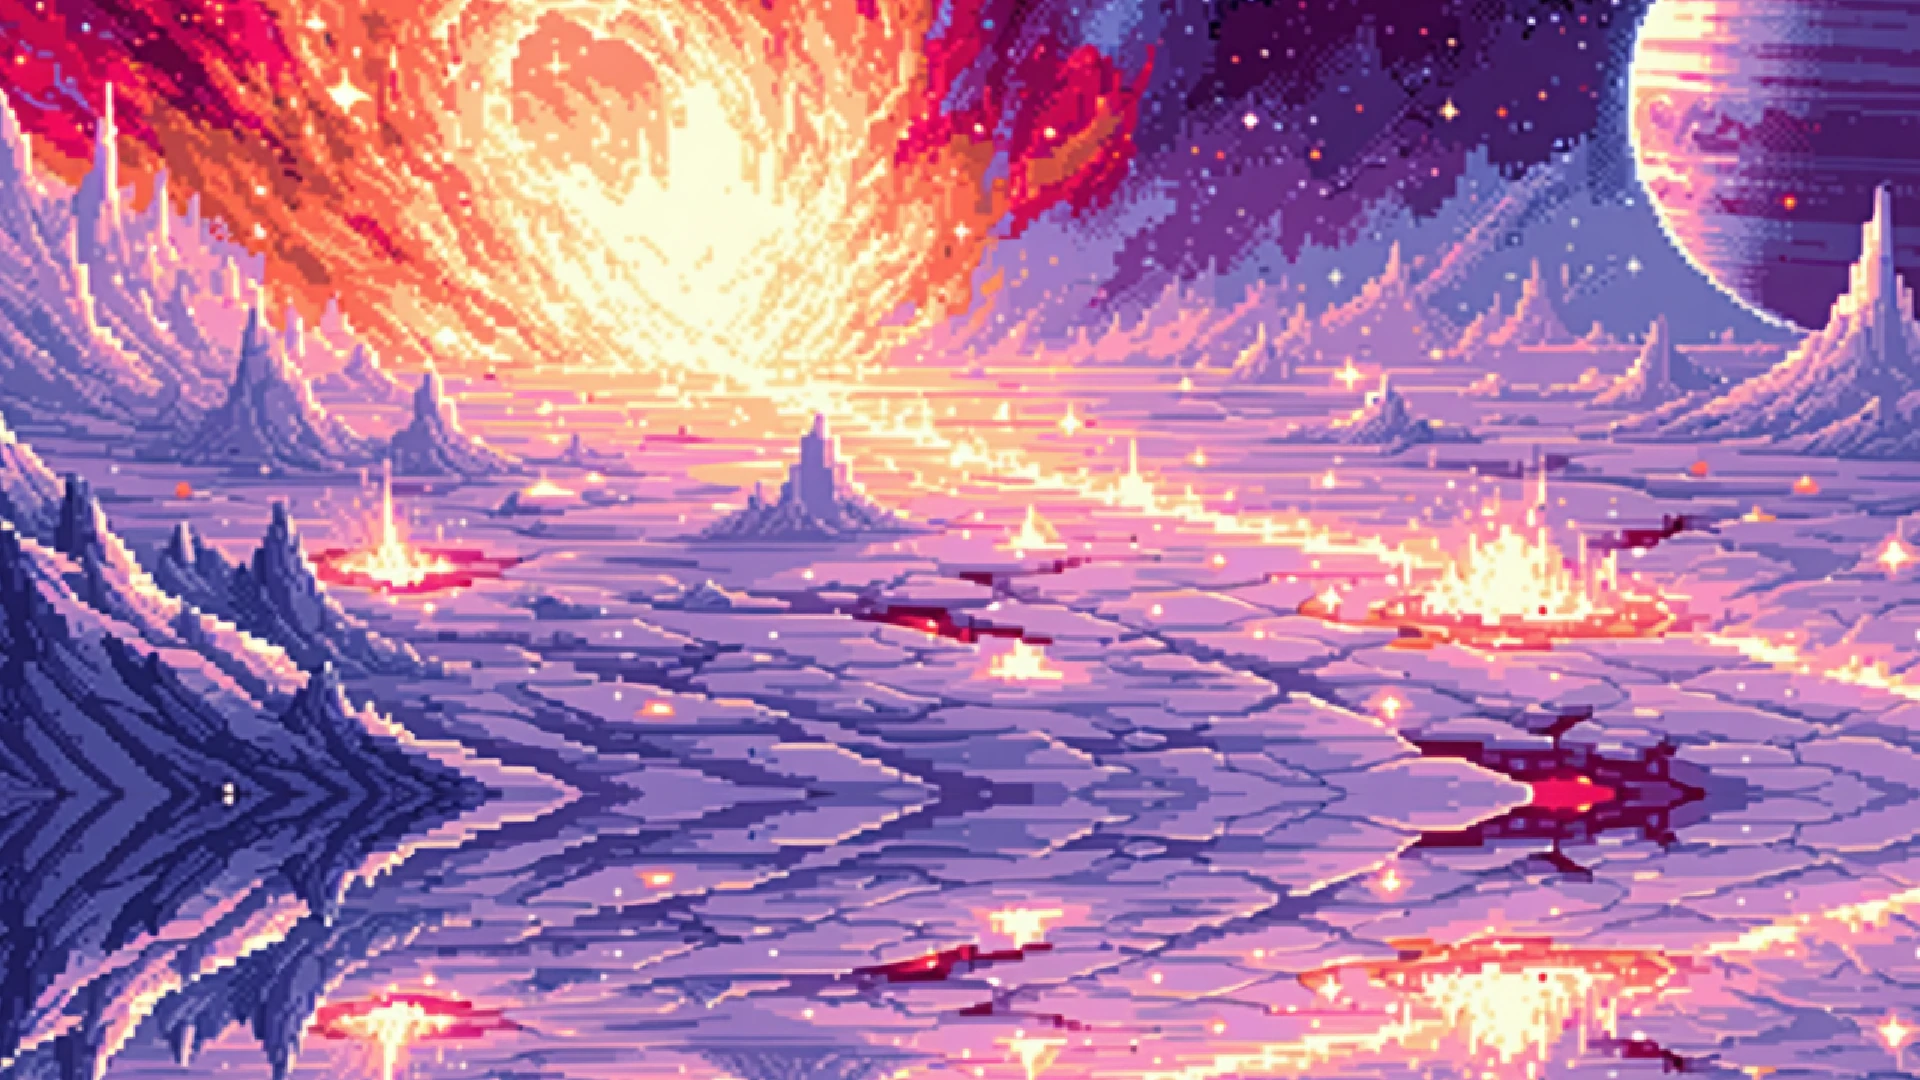
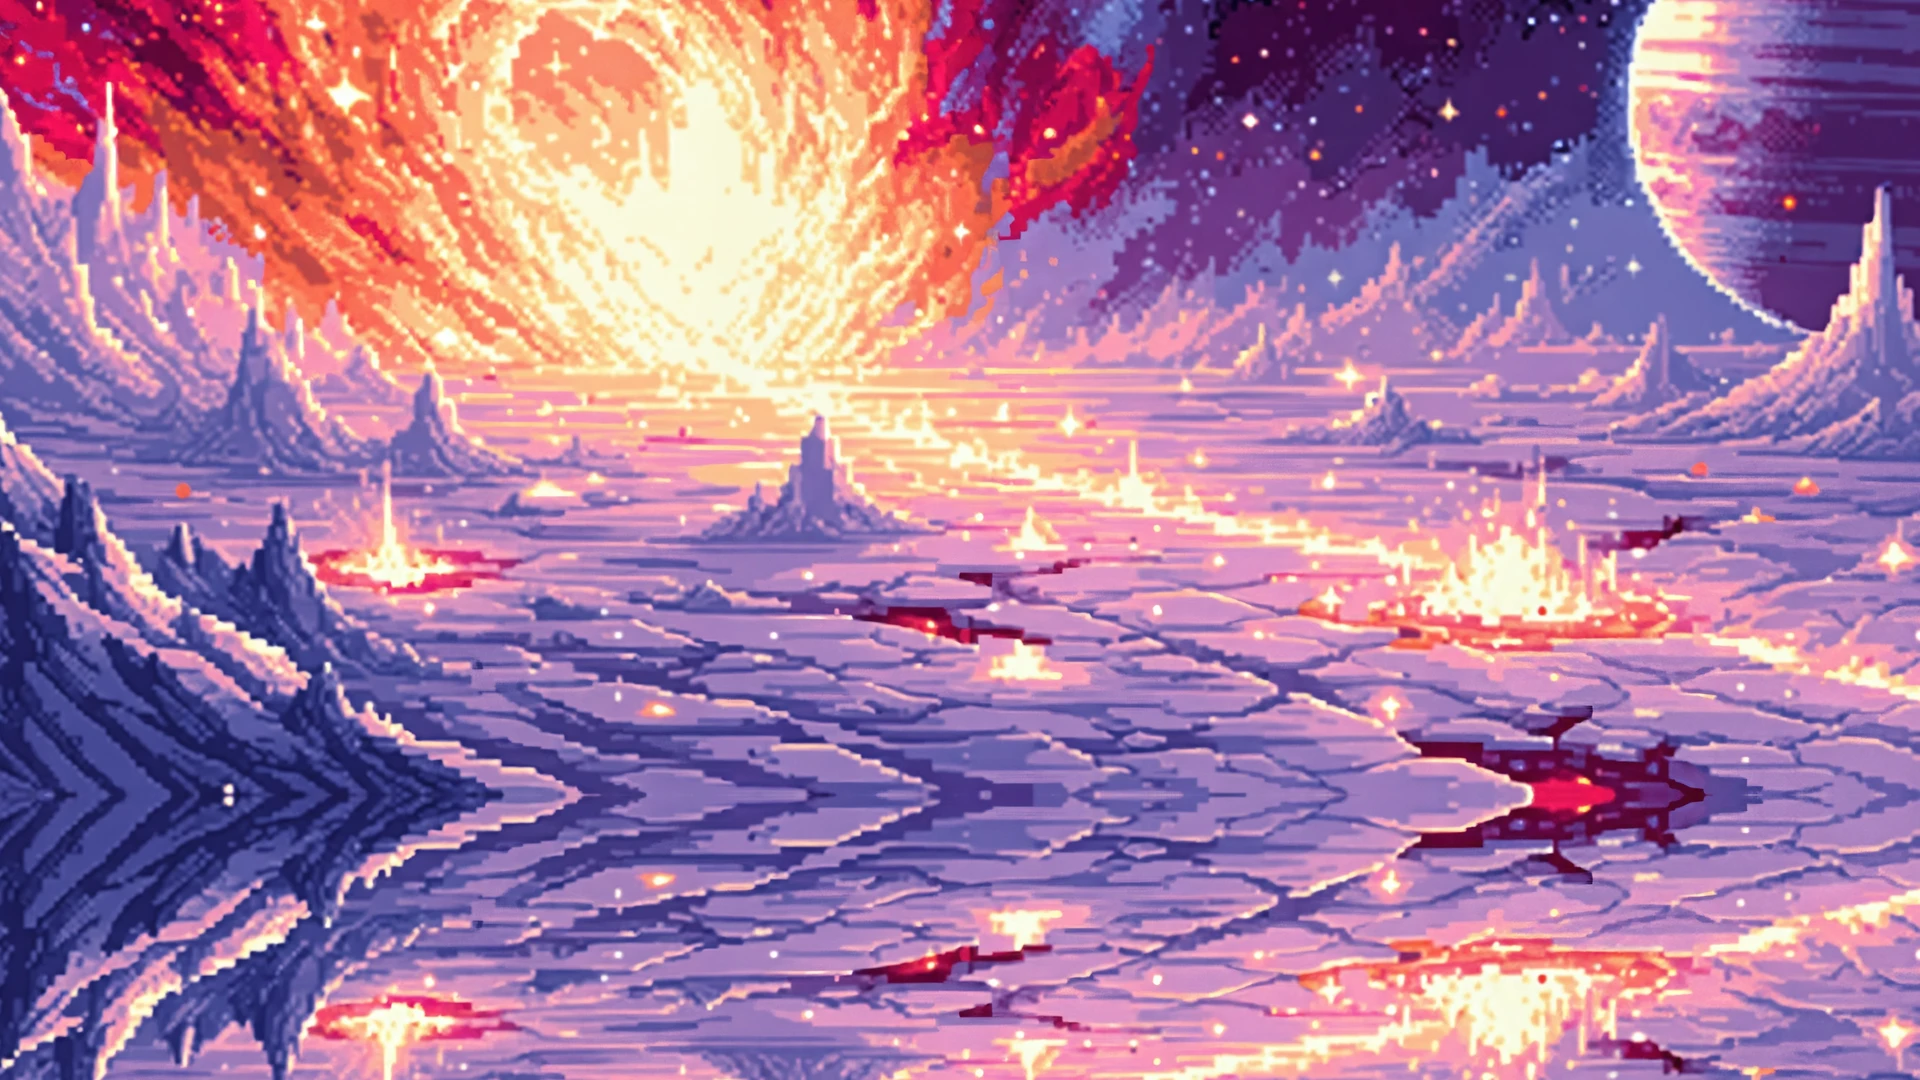
C3' rim: conservative upscale of rim-src.png (C21, 4112x2352), stage entry switched to rim-src-up.png, --check rim ok (seam 22.6), selftests re-pinned; 21 of 80

diff --git a/assets-src/tools/stage_rim.py b/assets-src/tools/stage_rim.py
@@ -37,7 +37,7 @@ import stage_backgrounds as SB  # noqa: E402
 ROOT = SB.ROOT
 SRC_DIR = ROOT / "assets-src" / "backgrounds"
 # (source file, horizon row in the source, zoom, align, screen horizon y): the user-accepted values (D-U7)
-RIM = ("rim-src.png", 485, 1.05, "center", 370)
+RIM = ("rim-src-up.png", 485, 1.05, "center", 370)   # C3': the conservative upscale of rim-src.png (C21); the accepted raw stays
 RIM_SRC_H = 768                  # the source height RIM's horizon row 485 is recorded at (the accepted 1344x768 render)
 BLEED = 12
 FIELD_BAND = (0, SB.FIELD_TOP, 1920, 780)

diff --git a/assets-src/gen/selftest_colossus_art.py b/assets-src/gen/selftest_colossus_art.py
@@ -182,7 +182,7 @@ def _stage_rim(check) -> None:
     import stage_rim as SR
     lines = len((TOOLS / "stage_backgrounds.py").read_text().splitlines())
     check(lines <= 249, f"stage_backgrounds.py stays line-neutral ({lines} <= 249 lines)")
-    check(SR.RIM == ("rim-src.png", 485, 1.05, "center", 370), f"stage_rim: the user-accepted entry {SR.RIM}")
+    check(SR.RIM == ("rim-src-up.png", 485, 1.05, "center", 370), f"stage_rim: the user-accepted entry {SR.RIM}")
     with tempfile.TemporaryDirectory() as t:
         tmp = Path(t)
         yy, xx = np.mgrid[0:768, 0:1344]

diff --git a/assets-src/gen/selftest_colossus_up.py b/assets-src/gen/selftest_colossus_up.py
@@ -214,7 +214,7 @@ def _pattern(h: int = 768, w: int = 1344) -> np.ndarray:
 def _stage_hires(check) -> None:
     sys.path.insert(0, str(TOOLS))
     import stage_rim as SR
-    check(SR.RIM == ("rim-src.png", 485, 1.05, "center", 370) and getattr(SR, "RIM_SRC_H", None) == 768,
+    check(SR.RIM == ("rim-src-up.png", 485, 1.05, "center", 370) and getattr(SR, "RIM_SRC_H", None) == 768,
           f"stage_rim: the accepted entry {SR.RIM}; the horizon row is recorded at RIM_SRC_H = 768 px source height")
     with tempfile.TemporaryDirectory() as t:
         tmp = Path(t)

diff --git a/docs/ROSTER_LOG.md b/docs/ROSTER_LOG.md
@@ -1245,3 +1245,16 @@ archive copies are in `chaos_horizon_v1`.
 - **Approved:** `approved/chaos_forms/chaos_horizon/master.png` (body, 2700x1080 soft alpha) plus `glow.png` and
   `sky_base.png`, with `meta.json` (chain, checks, cache keys).
 - Showing more of the ring (place_y nearer -60) is a placement / user call (18.4); I did not change it.
+
+**Rim backdrop upscale (step 3).**
+- C21: `upscale assets-src/backgrounds/rim-src.png --model conservative --creativity 0.35 --seed 5151` with the
+  rim-src.json prompt and webp output; purpose rim_upscale. Result 4112x2352, written to `rim-src-up.png` with a
+  sidecar.
+- Staged with `stage_backgrounds.py rim --file`: scale 0.49 with the horizon row scaled (1485.3), top -358,
+  bottom 795.
+- `--check rim`: coverage 100 %, edge 149.1, party band 0.86, seam 22.6 (the old staging had 27.6).
+- Old vs new crops: the new rim has no nearest-neighbour staircase and its edges are anti-aliased. The source's own
+  drawn pixel-art blocks stay, because they are part of the painting.
+- **Switched:** stage_rim `RIM` now reads `rim-src-up.png`, and `selftest_colossus_art.py` / `selftest_colossus_up.py`
+  are re-pinned (both ALL PASSED / exit 0). `rim-src.png` (the accepted raw) is kept, and the selftest still checks
+  that it stages byte-identical to the accepted preview.
